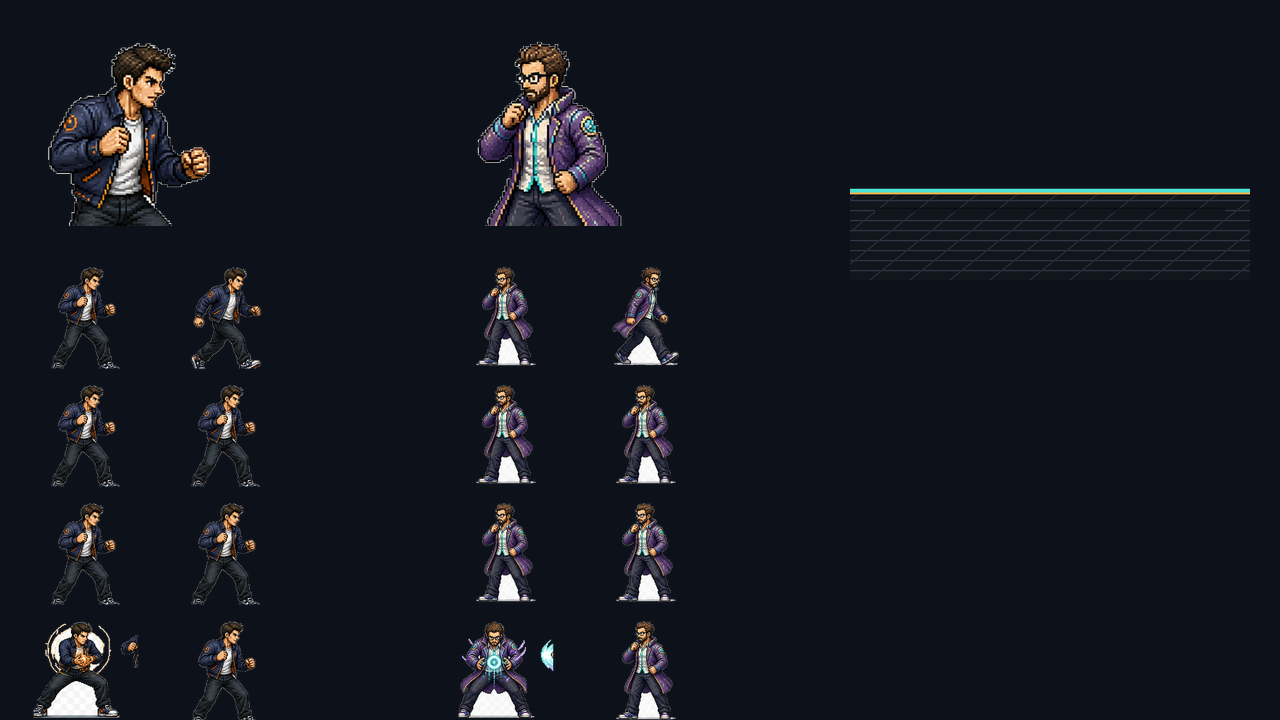
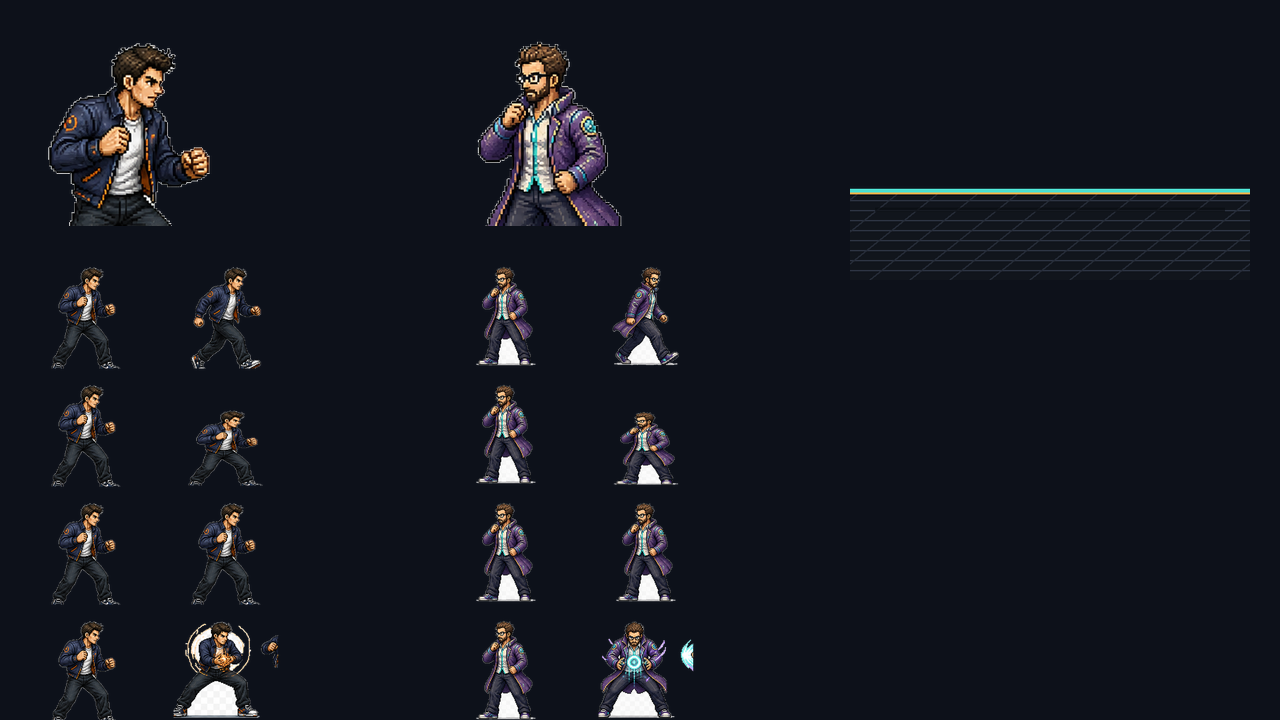
Add WASD controls and crouch state

diff --git a/fighter-rebuild/src/scenes/FighterPlaygroundScene.ts b/fighter-rebuild/src/scenes/FighterPlaygroundScene.ts
@@ -13,7 +13,7 @@ import {
   createFighterState,
 } from '../game/fighter';
 import type { AttackKind, FighterInput, FighterState } from '../game/fighter';
-import type { AssetManifestAnimation, CharacterDefinition, GameConfig, Rect, StageDefinition } from '../game/types';
+import type { AssetManifestAnimation, CharacterDefinition, GameConfig, InputBindingConfig, Rect, StageDefinition } from '../game/types';
 import {
   type DebugPanelMount,
   type FighterPlaygroundOverlayKey,
@@ -132,16 +132,7 @@ export class FighterPlaygroundScene extends BaseScene {
 
     this.gameConfig = config;
     this.stageDefinition = stage;
-    this.inputByCode = {
-      [config.input.left]: 'left',
-      [config.input.right]: 'right',
-      [config.input.jump]: 'jump',
-      [config.input.crouch]: 'crouch',
-      [config.input.block]: 'block',
-      [config.input.light]: 'light',
-      [config.input.heavy]: 'heavy',
-      [config.input.special]: 'special',
-    };
+    this.inputByCode = createInputCodeMap(config.input);
 
     this.combatState = createCombatState({
       seed: config.settings.seed,
@@ -264,10 +255,11 @@ export class FighterPlaygroundScene extends BaseScene {
     this.createHoldButton(40, y, 58, 42, 'Left', 'left');
     this.createHoldButton(106, y, 58, 42, 'Right', 'right');
     this.createHoldButton(172, y, 58, 42, 'Jump', 'jump');
-    this.createHoldButton(238, y, 58, 42, 'Guard', 'block');
-    this.createActionButton(392, y, 112, 42, ATTACK_LABELS.light, 'light');
-    this.createActionButton(520, y, 112, 42, ATTACK_LABELS.heavy, 'heavy');
-    this.createActionButton(662, y, 128, 42, ATTACK_LABELS.special, 'special');
+    this.createHoldButton(238, y, 58, 42, 'Duck', 'crouch');
+    this.createHoldButton(304, y, 58, 42, 'Guard', 'block');
+    this.createActionButton(430, y, 112, 42, ATTACK_LABELS.light, 'light');
+    this.createActionButton(558, y, 112, 42, ATTACK_LABELS.heavy, 'heavy');
+    this.createActionButton(700, y, 128, 42, ATTACK_LABELS.special, 'special');
     this.createActionButton(818, y, 96, 42, 'Reset Dummy', 'reset');
   }
 
@@ -638,7 +630,7 @@ export class FighterPlaygroundScene extends BaseScene {
       [
         `Player ${player.health}/${player.tuning.maxHealth} HP  ${player.meter}/${player.tuning.meterMax} meter  ${player.status}`,
         `Dummy  ${dummy.health}/${dummy.tuning.maxHealth} HP  ${dummy.meter}/${dummy.tuning.meterMax} meter  ${dummy.status}${this.state.dummyGuard ? ' guarding' : ''}`,
-        `Keys: arrows move, Shift guard, Z ${ATTACK_LABELS.light}, X ${ATTACK_LABELS.heavy}, C ${ATTACK_LABELS.special}, Esc menu`,
+        `Keys: A/D move, W or Space jump, S duck, E guard, J/K/L attacks, Esc menu`,
       ].join('\n'),
     );
     this.tuningText?.setText(
@@ -843,6 +835,32 @@ function fighterSnapshot(fighter: FighterState): {
     frame: fighter.animationFrame,
     x: Math.round(fighter.position.x * 100) / 100,
     y: Math.round(fighter.position.y * 100) / 100,
+  };
+}
+
+function createInputCodeMap(input: InputBindingConfig): Partial<Record<string, keyof FighterInput>> {
+  return {
+    ArrowLeft: 'left',
+    ArrowRight: 'right',
+    ArrowUp: 'jump',
+    ArrowDown: 'crouch',
+    Space: 'jump',
+    KeyA: 'left',
+    KeyD: 'right',
+    KeyW: 'jump',
+    KeyS: 'crouch',
+    KeyE: 'block',
+    KeyJ: 'light',
+    KeyK: 'heavy',
+    KeyL: 'special',
+    [input.left]: 'left',
+    [input.right]: 'right',
+    [input.jump]: 'jump',
+    [input.crouch]: 'crouch',
+    [input.block]: 'block',
+    [input.light]: 'light',
+    [input.heavy]: 'heavy',
+    [input.special]: 'special',
   };
 }
 

diff --git a/fighter-rebuild/src/scenes/MatchScene.ts b/fighter-rebuild/src/scenes/MatchScene.ts
@@ -36,6 +36,7 @@ import type {
   AssetManifestAnimation,
   CharacterDefinition,
   GameConfig,
+  InputBindingConfig,
   MatchConfig,
   StageDefinition,
 } from '../game/types';
@@ -141,17 +142,7 @@ export class MatchScene extends BaseScene {
       stageId: sourceStage.id,
     };
     this.stageDefinition = createRuntimeStage(sourceStage, this.scale.width, this.scale.height);
-    this.inputByCode = {
-      [config.input.left]: 'left',
-      [config.input.right]: 'right',
-      [config.input.jump]: 'jump',
-      [config.input.crouch]: 'crouch',
-      [config.input.block]: 'block',
-      [config.input.light]: 'light',
-      [config.input.heavy]: 'heavy',
-      [config.input.special]: 'special',
-      [config.input.pause]: 'pause',
-    };
+    this.inputByCode = createInputCodeMap(config.input);
     this.cpuEnabled = config.settings.cpuDifficulty !== 'easy' || true;
     this.debugOverlay = config.settings.debugEnabled;
     this.cpuController = createCpuController({
@@ -689,10 +680,11 @@ export class MatchScene extends BaseScene {
     this.createHoldButton(40, y, 58, 38, 'Left', 'left');
     this.createHoldButton(106, y, 58, 38, 'Right', 'right');
     this.createHoldButton(172, y, 58, 38, 'Jump', 'jump');
-    this.createHoldButton(238, y, 58, 38, 'Guard', 'block');
-    this.createActionButton(390, y, 110, 38, ATTACK_LABELS.light, 'light');
-    this.createActionButton(518, y, 110, 38, ATTACK_LABELS.heavy, 'heavy');
-    this.createActionButton(660, y, 132, 38, ATTACK_LABELS.special, 'special');
+    this.createHoldButton(238, y, 58, 38, 'Duck', 'crouch');
+    this.createHoldButton(304, y, 58, 38, 'Guard', 'block');
+    this.createActionButton(430, y, 110, 38, ATTACK_LABELS.light, 'light');
+    this.createActionButton(558, y, 110, 38, ATTACK_LABELS.heavy, 'heavy');
+    this.createActionButton(700, y, 132, 38, ATTACK_LABELS.special, 'special');
   }
 
   private createHoldButton(
@@ -1005,6 +997,33 @@ function createRuntimeStage(source: StageDefinition, canvasWidth: number, canvas
     floorY: canvasHeight - 105,
     playerSpawnX: Phaser.Math.Clamp(source.playerSpawnX * xScale, FIGHTER_FRAME_WIDTH / 2, width - FIGHTER_FRAME_WIDTH / 2),
     cpuSpawnX: Phaser.Math.Clamp(source.cpuSpawnX * xScale, FIGHTER_FRAME_WIDTH / 2, width - FIGHTER_FRAME_WIDTH / 2),
+  };
+}
+
+function createInputCodeMap(input: InputBindingConfig): Partial<Record<string, TestHookInputAction>> {
+  return {
+    ArrowLeft: 'left',
+    ArrowRight: 'right',
+    ArrowUp: 'jump',
+    ArrowDown: 'crouch',
+    Space: 'jump',
+    KeyA: 'left',
+    KeyD: 'right',
+    KeyW: 'jump',
+    KeyS: 'crouch',
+    KeyE: 'block',
+    KeyJ: 'light',
+    KeyK: 'heavy',
+    KeyL: 'special',
+    [input.left]: 'left',
+    [input.right]: 'right',
+    [input.jump]: 'jump',
+    [input.crouch]: 'crouch',
+    [input.block]: 'block',
+    [input.light]: 'light',
+    [input.heavy]: 'heavy',
+    [input.special]: 'special',
+    [input.pause]: 'pause',
   };
 }
 

diff --git a/fighter-rebuild/src/game/fighter.ts b/fighter-rebuild/src/game/fighter.ts
@@ -7,7 +7,7 @@ export const FIGHTER_FRAME_HEIGHT = 320;
 export type FighterSlot = 'player' | 'cpu';
 export type Facing = 'left' | 'right';
 export type AttackKind = 'light' | 'heavy' | 'special';
-export type FighterStatus = 'idle' | 'walk' | 'jump' | 'block' | 'attack' | 'hitstun' | 'blockstun' | 'knockdown';
+export type FighterStatus = 'idle' | 'walk' | 'jump' | 'crouch' | 'block' | 'attack' | 'hitstun' | 'blockstun' | 'knockdown';
 
 export interface FighterInput {
   readonly left?: boolean;
@@ -135,6 +135,10 @@ export function fighterAnimationName(fighter: FighterState): string {
     return 'block';
   }
 
+  if (fighter.status === 'crouch') {
+    return 'crouch';
+  }
+
   if (fighter.status === 'knockdown') {
     return 'knockdown';
   }
@@ -258,6 +262,24 @@ export function advanceFighterForFrame(
         deltaSeconds,
       ),
       'block',
+      fighter.status,
+    );
+  }
+
+  if (input.crouch && fighter.isGrounded) {
+    return applyStatus(
+      advancePhysics(
+        {
+          ...fighter,
+          velocity: {
+            x: fighter.velocity.x * fighter.tuning.groundFriction,
+            y: fighter.velocity.y,
+          },
+        },
+        stage,
+        deltaSeconds,
+      ),
+      'crouch',
       fighter.status,
     );
   }
@@ -460,6 +482,7 @@ function animationFrameInterval(animationName: string): number {
     case 'walk':
       return 8;
     case 'jump':
+    case 'crouch':
     case 'block':
     case 'knockdown':
       return 8;

diff --git a/fighter-rebuild/src/game/config.ts b/fighter-rebuild/src/game/config.ts
@@ -47,6 +47,7 @@ export const REQUIRED_ANIMATIONS = [
   'idle',
   'walk',
   'jump',
+  'crouch',
   'block',
   'light',
   'heavy',
@@ -71,14 +72,14 @@ const DEFAULT_TUNING: FighterTuning = {
 };
 
 const DEFAULT_INPUT: InputBindingConfig = {
-  left: 'ArrowLeft',
-  right: 'ArrowRight',
-  jump: 'ArrowUp',
-  crouch: 'ArrowDown',
-  block: 'ShiftLeft',
-  light: 'KeyZ',
-  heavy: 'KeyX',
-  special: 'KeyC',
+  left: 'KeyA',
+  right: 'KeyD',
+  jump: 'KeyW',
+  crouch: 'KeyS',
+  block: 'KeyE',
+  light: 'KeyJ',
+  heavy: 'KeyK',
+  special: 'KeyL',
   pause: 'Enter',
 };
 

diff --git a/fighter-rebuild/src/game/config.test.ts b/fighter-rebuild/src/game/config.test.ts
@@ -83,7 +83,7 @@ describe('game config loading and normalization', () => {
     expect(config.tuning['sama-balanced']?.gravity).toBeGreaterThan(0);
     expect(config.tuning['sama-balanced']?.pushboxWidth).toBeGreaterThan(90);
     expect(config.match.stageId).toBe('byte-boardroom');
-    expect(config.input.light).toBe('KeyZ');
+    expect(config.input.light).toBe('KeyJ');
     expect(config.settings.roundsToWin).toBe(2);
   });
 

diff --git a/fighter-rebuild/src/game/types.ts b/fighter-rebuild/src/game/types.ts
@@ -16,6 +16,7 @@ export type AnimationName =
   | 'idle'
   | 'walk'
   | 'jump'
+  | 'crouch'
   | 'block'
   | 'light'
   | 'heavy'

diff --git a/fighter-rebuild/scripts/slice-high-detail-sheets.py b/fighter-rebuild/scripts/slice-high-detail-sheets.py
@@ -67,6 +67,7 @@ ANIMATIONS = [
     {"name": "idle", "frames": ["idle", "idle", "idle", "idle"], "fps": 5, "loop": True},
     {"name": "walk", "frames": ["walk1", "walk2", "walk1", "idle", "walk2", "idle"], "fps": 8, "loop": True},
     {"name": "jump", "frames": ["idle", "jump", "jump", "idle"], "fps": 8, "loop": False},
+    {"name": "crouch", "frames": ["crouch", "crouch", "crouch", "crouch"], "fps": 8, "loop": False},
     {"name": "block", "frames": ["idle", "block", "block"], "fps": 8, "loop": False},
     {"name": "light", "frames": ["idle", "light", "light", "idle"], "fps": 12, "loop": False},
     {"name": "heavy", "frames": ["idle", "heavy", "heavy", "heavy", "idle"], "fps": 10, "loop": False},
@@ -240,11 +241,28 @@ def expand_bbox(bbox: tuple[int, int, int, int], size: tuple[int, int], pad: int
 
 
 def build_strip(cells: list[Image.Image], pose_names: Iterable[str]) -> Image.Image:
-    poses = [cells[POSE_INDEX[name]] for name in pose_names]
+    poses = [build_crouch_pose(cells[POSE_INDEX["idle"]]) if name == "crouch" else cells[POSE_INDEX[name]] for name in pose_names]
     strip = Image.new("RGBA", (FRAME_SIZE * len(poses), FRAME_SIZE), (255, 255, 255, 0))
     for index, pose in enumerate(poses):
         strip.alpha_composite(pose, (index * FRAME_SIZE, 0))
     return strip
+
+
+def build_crouch_pose(idle: Image.Image) -> Image.Image:
+    alpha = idle.getchannel("A")
+    bbox = alpha.getbbox()
+    if bbox is None:
+        return Image.new("RGBA", (FRAME_SIZE, FRAME_SIZE), (255, 255, 255, 0))
+
+    figure = idle.crop(expand_bbox(bbox, idle.size, 4))
+    target_width = min(FRAME_SIZE - 12, round(figure.width * 1.08))
+    target_height = min(FRAME_SIZE - 18, round(figure.height * 0.74))
+    crouch = figure.resize((target_width, target_height), Image.Resampling.LANCZOS)
+    frame = Image.new("RGBA", (FRAME_SIZE, FRAME_SIZE), (255, 255, 255, 0))
+    x = (FRAME_SIZE - target_width) // 2
+    y = FRAME_SIZE - target_height - 10
+    frame.alpha_composite(crouch, (x, y))
+    return frame
 
 
 def build_portrait(idle: Image.Image) -> Image.Image: